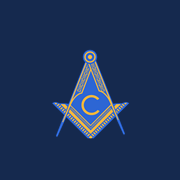
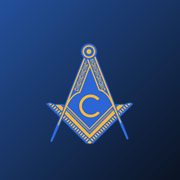
App: valida triagem (data/horario), resumo organizado, permissao no login, icone melhor
- Triagem rejeita data/horario invalidos e pede o formato certo.
- Resumo da triagem com cabecalho.
- Pede permissao de notificacao no clique de Entrar / 1o acesso.
- Icone PWA refeito (gradiente azul->navy, logo maior).

diff --git a/src/app/categoria/[codigo].tsx b/src/app/categoria/[codigo].tsx
@@ -65,6 +65,28 @@ function primeiroNome(nomeCompleto: string) {
   return partes.length <= 2 ? nomeCompleto : `${partes[0]} ${partes[1]}`;
 }
 
+/** Valida respostas da triagem que exigem formato. Devolve a mensagem de erro ou null. */
+function validarResposta(chave: string, texto: string): string | null {
+  const t = texto.trim();
+  if (chave === 'data') {
+    const m = t.match(/^(\d{1,2})\/(\d{1,2})(?:\/(\d{2,4}))?$/);
+    if (!m) return 'Para continuar, informe a data no formato DD/MM/AAAA (ex.: 08/06/2026).';
+    const dia = Number(m[1]);
+    const mes = Number(m[2]);
+    if (dia < 1 || dia > 31 || mes < 1 || mes > 12) {
+      return 'Essa data não parece válida. Use DD/MM/AAAA (ex.: 08/06/2026).';
+    }
+  }
+  if (chave === 'horario') {
+    const m = t.match(/^(\d{1,2}):(\d{2})$/);
+    if (!m) return 'Informe o horário no formato HH:MM (ex.: 08:00).';
+    if (Number(m[1]) > 23 || Number(m[2]) > 59) {
+      return 'Esse horário não é válido. Use HH:MM (ex.: 08:00).';
+    }
+  }
+  return null;
+}
+
 export default function ChatCategoria() {
   const router = useRouter();
   const theme = useTheme();
@@ -228,9 +250,18 @@ export default function ChatCategoria() {
     }
     if (passo.tipo === 'texto' && !textoResp) return;
 
+    // Valida data/horário: se vier errado, pede de novo (não avança).
+    if (passo.tipo === 'texto') {
+      const erro = validarResposta(passo.chave, textoResp ?? '');
+      if (erro) {
+        addAtendente(erro);
+        return;
+      }
+    }
+
     // Guarda a resposta para virar campo do chamado / resumo no backend.
     if (passo.tipo === 'anexo' && anexo) anexoTriagemRef.current = anexo;
-    else respostasRef.current[passo.chave] = textoResp ?? '';
+    else respostasRef.current[passo.chave] = (textoResp ?? '').trim();
 
     const prox = passoIdx + 1;
     if (prox < passos.length) {

diff --git a/src/app/login.tsx b/src/app/login.tsx
@@ -21,6 +21,7 @@ import { Brand } from '@/constants/brand';
 import { Fonts, Spacing } from '@/constants/theme';
 import { useAuth } from '@/context/auth';
 import { api, apiAtiva } from '@/data/api';
+import { pedirPermissaoNotificacao } from '@/data/notifications';
 
 /**
  * Paleta fixa do login (sempre navy + vidro), independente do tema do app —
@@ -69,6 +70,7 @@ export default function Login() {
       setErro('');
       try {
         await entrarApi(identificador.trim(), senha);
+        pedirPermissaoNotificacao();
         router.replace('/');
       } catch (e) {
         setErro(e instanceof Error ? e.message : 'Não foi possível entrar.');
@@ -118,6 +120,7 @@ export default function Login() {
     try {
       const r = await api.definirSenha(identificador.trim(), novaSenha);
       aplicarSessao(r.token, r.usuario);
+      pedirPermissaoNotificacao();
       router.replace('/');
     } catch (e) {
       setErro(e instanceof Error ? e.message : 'Não foi possível definir a senha.');

diff --git a/src/data/chat-live.ts b/src/data/chat-live.ts
@@ -88,7 +88,7 @@ export function parseDataOcorrencia(texto: string | undefined): string {
 
 /** Monta um resumo curto das respostas da triagem para o atendente ler no chat. */
 export function resumoTriagem(respostas: Record<string, string>): string {
-  const linhas: string[] = [];
+  const linhas: string[] = ['📋 Resumo da justificativa'];
   if (respostas.data) linhas.push(`📅 Data: ${respostas.data}`);
   if (respostas.horario) linhas.push(`⏰ Horário correto: ${respostas.horario}`);
   if (respostas.descricao) linhas.push(`📝 Motivo: ${respostas.descricao}`);
